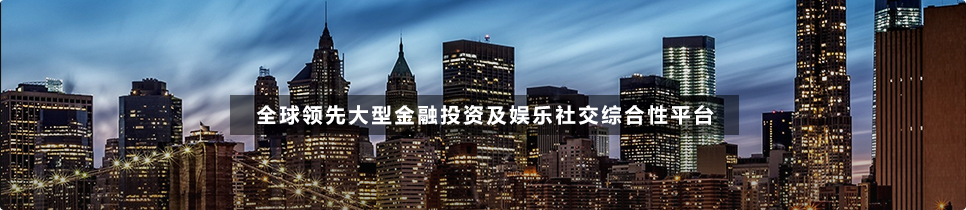
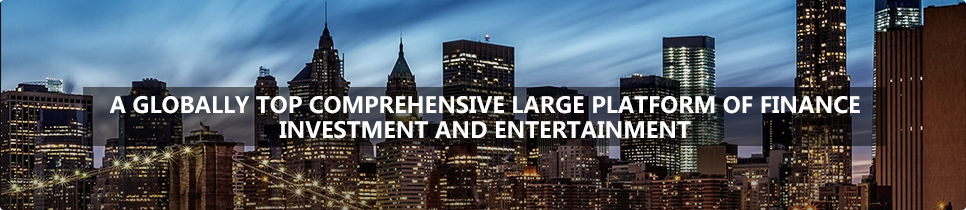
fix bug

Changed region(s): [[0.0621, 0.4, 0.9317, 0.7143]]

diff --git a/template/en/frontend/about_us.html b/template/en/frontend/about_us.html
@@ -4,7 +4,7 @@
 
 <!--main content-->
 <div class="main clearfloat ">
-    <div class="banner pt20"><img src="/static/pic/banner001.png"></div>
+    <div class="banner pt20"><img src="/static/en/pic/banner001.png"></div>
     <div class="com_info clearfloat mt20">
         <h1 class="pic_tit mb15">Company profile</h1>
         <div class="info_left">
@@ -26,9 +26,9 @@
         <p>As a globally top comprehensive large Platform of finance，investment and entertainment,we exert ourselves to provide a host of investors with solutions,upgrade values and promote growth.This is how we can create wealth and make sure that millions of members operate safely.</p>
         <p>Our provided solutions demonstrate our function as a globally multiple service platform including advertising agencies ,private equity ,electronic-money transactions,social diversion and game lives.We have built a senior talent pool specializing in financial capital and so forth,At GlobalActionCash, we attracted talented individuals,embrace innovations , encourage independent thinking and create an honest atmosphere.Our accountability is based on the abundant capital.We remain committed to stay ahead as a large service platform of finance ,entertainment and social contact.</p>
 
-        <img class="dy_pic" src="/static/pic/dy_pic.png">
+        <img class="dy_pic" src="/static/en/pic/dy_pic.png">
     </div>
-    <div class="banner mt20"><img src="/static/pic/banner002.png"></div>
+    <div class="banner mt20"><img src="/static/en/pic/banner002.png"></div>
     <div class="team_box">
         <h1 class="pic_tit">Our team</h1>
         <h2>Capital national team is a professional design and financial professionals based groups</h2>

diff --git a/template/en/frontend/base-noleft.html b/template/en/frontend/base-noleft.html
@@ -45,7 +45,7 @@
             </li>
             <li>
                 <a href="/about-us/" {% if index == 'about_us' %}class="om"{% endif %}>
-                    <img src="/static/pic/nav_squar.png">Ahout
+                    <img src="/static/pic/nav_squar.png">About
                 </a>
             </li>
             <li>

diff --git a/template/en/frontend/base.html b/template/en/frontend/base.html
@@ -52,7 +52,7 @@
             </li>
             <li>
                 <a href="/about-us/" {% if index == 'about_us' %}class="om"{% endif %}>
-                    <img src="/static/pic/nav_squar.png">Ahout
+                    <img src="/static/pic/nav_squar.png">About
                 </a>
             </li>
             <li>

diff --git a/app/member/services.py b/app/member/services.py
@@ -5,7 +5,7 @@ import random
 import hashlib
 from django.utils import timezone
 from django.db.models import Sum
-from dbmodel.ziben.models import UserInfo, UserBalance, UserConnection, UserRevenue, Statics, SiteSetting, CBCDInit, CBCDPriceLog,UserOrderSell
+from dbmodel.ziben.models import UserInfo, UserBalance, UserConnection, UserRevenue, Statics, SiteSetting, CBCDInit, CBCDPriceLog,UserOrderSell, News
 from lib import utils
 
 
